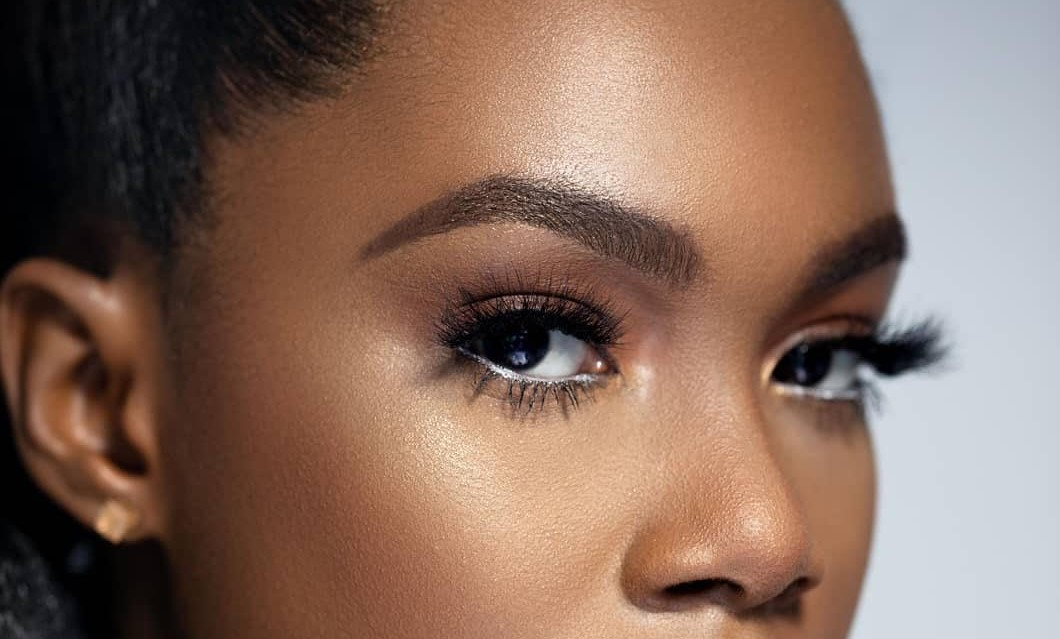
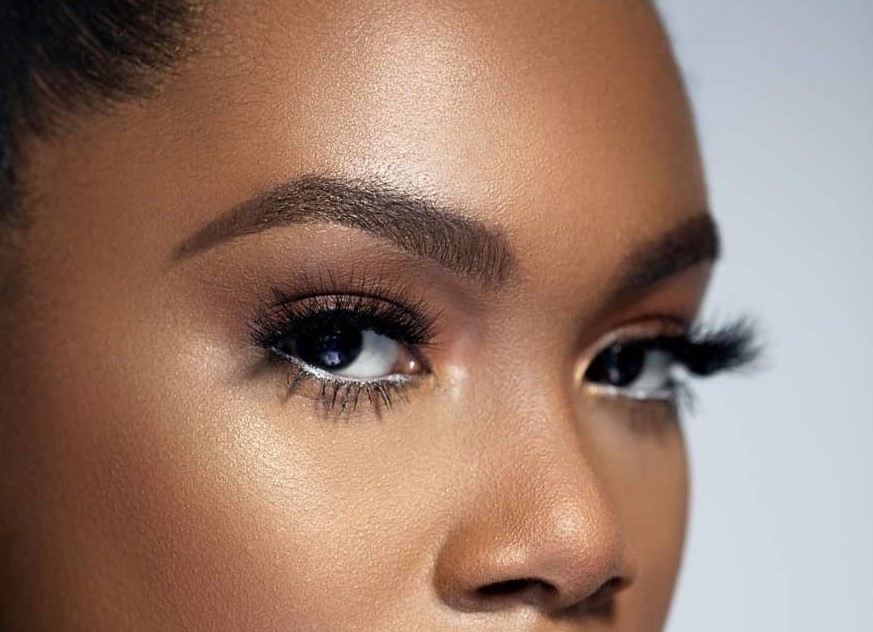
edit

diff --git a/css/welcome.css b/css/welcome.css
@@ -46,7 +46,7 @@ a {
 header{
   background: #ffffff;
   color :#000000;
-  height: 7em;
+  height: 9em;
   position: fixed;
   width: 100%;
   z-index: 9;
@@ -74,8 +74,8 @@ header nav {
 {
   display: block;
   position: relative;
-  top: 50px;
-  left: 50px;
+  top: 70px;
+  left: 5px;
   
   z-index: 1;
   
@@ -93,7 +93,7 @@ header nav {
 
 #menuToggle a:hover
 {
-  color: tomato;
+  color: #0a192f;
 }
 
 
@@ -182,12 +182,12 @@ header nav {
 #menu
 {
   position: absolute;
-  width: 400px;
-  margin: -100px 0 0 -150px;
+  width: 370px;
+  margin: -100px 0 0 -70px;
   padding: 50px;
-  padding-top: 125px;
+  padding-top: 115px;
   left: 0px;
-  background: #ededed;
+  background-image: url(../images/pattern.png);
   list-style-type: none;
   -webkit-font-smoothing: antialiased;
   /* to stop flickering of text in safari */
@@ -251,18 +251,24 @@ header nav {
 }
 #hero img{
   background-position: right;
-  height: 55.3em;
+  height: 45.3em;
   width: 55%;
   position: relative;
-  margin-top: 7em;
+  margin-top:13em;
   border-radius: 2%;
-  margin-left: 47em;
+  transform: translateX(85%);
   
 }
-@media screen and (max-width: 650px) {
+   @media screen and (max-width: 950px) {
+    #hero {
+      margin-bottom: -6em;
+       }
+     }
+@media screen and (max-width: 950px) {
   #hero img{
-    margin-left: 12em;
-    height: 30em;
+    height: 25em;
+    width: 65%;
+    transform: translateX(65%);
      }
    }
 
@@ -281,7 +287,7 @@ header nav {
   }
   
   #hero .hero__content h3 {
-  font-size: 1.7em;
+  font-size: 1.6em;
   text-transform: uppercase;
   font-weight: 600;
   margin-bottom: .7em;
@@ -289,7 +295,7 @@ header nav {
 }
 
 #hero .hero__content h1 {
-  font-size: 5.5em;
+  font-size: 5.15em;
   font-weight: 600;
   line-height: 1em; 
   margin: 0;
@@ -298,7 +304,7 @@ header nav {
 }
 
 #hero .hero__content p {
-  font-size: 1.7em;
+  font-size: 1.5em;
   color: #0a192f;
 }
 #hero .hero__content button {
@@ -326,14 +332,15 @@ header nav {
   #hero .hero__content {
     bottom: 0;
     transform: none;
+    margin-top: -9em;
   }
   
   #hero .hero__content h3 {
-    font-size: medium;
+    font-size: 1.2em;
   }
   
   #hero .hero__content h1 {
-    font-size: 2em;
+    font-size: 4em;
     
   }
   
@@ -350,7 +357,7 @@ header nav {
 
 
 #phase-three h6 span {
-  font-size: 65px;
+  font-size: 55px;
   font-family: "playfair Display", "sans-serif";
   font-style: italic;
   padding-bottom: 0px;
@@ -389,7 +396,7 @@ header nav {
   font-family: "playfair Display", "sans-serif";
   font-style: italic;
   line-height: 1.75;
-  font-size: 25px;
+  font-size: 23px;
   text-align: center;
   padding-left: 100px;
   padding-right: 100px;
@@ -400,7 +407,7 @@ header nav {
   width: 100vw;
 }
 #phase-three{
-  margin-top:8em;
+  margin-top:4em;
 }
 
 
@@ -424,13 +431,10 @@ header nav {
   text-align: center;
 }
 footer {
-  margin-top: 10em;
-  position: absolute;
-  width: 100vw;
-  
+  margin-top: 5.3em;
 }
 
-  footer  .wrapper {
+    .wrapper {
     text-align: center;
     background-color: black;
     padding-top: 20px;
@@ -452,16 +456,16 @@ footer {
     margin-top: 13px;
     font-family: 'Poppins', sans-serif;
   }
+  .wrapper a:hover:after { 
+    width: 0; 
+    left: 0; 
+  }
    .wrapper i {
-      padding: 5px; 
+      padding: 8px; 
       font-size: 25px;
       transition: all ease-in-out 150ms;
       margin-right: 10px;
       right: 10px;
-      }
-      .wrapper a:hover:after { 
-        width: 0; 
-        left: 0; 
       }
    .wrapper a:nth-child(3) {
    color: #ffffff;
@@ -474,5 +478,5 @@ footer {
   }
    .wrapper i:hover {
     margin-top: -3px; 
-   text-shadow: 0px 14px 10px rgba(0, 0, 0, 0.4);
+   text-shadow: 0px 14px 10px rgba(255, 255, 255, 0.4);
     } 

diff --git a/welcome.html b/welcome.html
@@ -37,7 +37,7 @@
       </script>
                                               <section id="hero">
       <!-- #F6E3F7 -->
-      <img src="./images/neww.jpg">
+      <img src="./images/new222.jpg">
         <div class="hero__content">
           <h3>MODEL</h3>
           <h1>Eniola<br>Arowoshere</h1>
@@ -63,8 +63,8 @@
       
       <footer>
         <div class="wrapper">  
-          <a target="_blank" href=" http://www.instagram.com/ehni_e"><i class="fa fa-3x fa-instagram"></i></a>  <br>  
-         <a target="_blank" href=" http://www.facebook.com"><i class="fa fa-3x fa-facebook-f"></i></a> <br>   <a target="_blank" href=" http://www.twitter.com/e__niola"><i class="fa fa-3x fa-twitter"></i></a> 
+          <a target="_blank" href=" http://www.instagram.com/e_niola"><i class="fa fa-3x fa-instagram"></i></a>   <br>
+         <a target="_blank" href=" http://www.facebook.com"><i class="fa fa-3x fa-facebook-f"></i></a>   <br> <a target="_blank" href=" http://www.twitter.com/e__niola"><i class="fa fa-3x fa-twitter" style="color: white;"></i></a> 
         
         <div class="copy">
           &copy;  2020 Eniola Arowoshere. All rights reserved.
